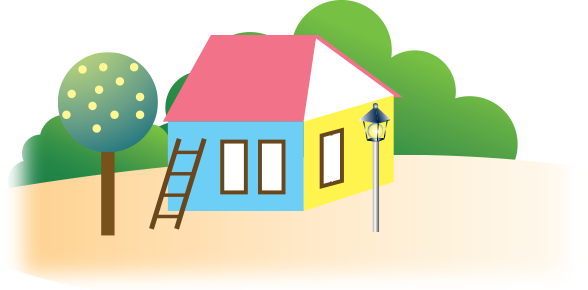
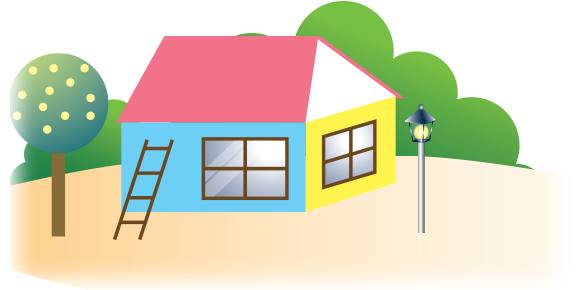
UPDATE

diff --git a/app/assets/javascripts/animations/dogru_ile_duzlem_iliskisi/dogru_ile_duzlem_iliskisi.common.js b/app/assets/javascripts/animations/dogru_ile_duzlem_iliskisi/dogru_ile_duzlem_iliskisi.common.js
@@ -6,8 +6,8 @@ dogrular=function(){
     var p="paralel";
     var pk=dogru;
     //cati
-    catiAY=new Point(164,122)
-    catiAX=new Point(212,35)
+    catiAY=new Point(120,122)
+    catiAX=new Point(168,35)
     catiA=new Path.Line(catiAX,catiAY);
     catiA.style=dogruStyle;
     catiA.class=k;
@@ -17,7 +17,7 @@ dogrular=function(){
     dogrularArray.push(catiA);
 
     catiBY=new Point(318,35)
-    catiBX=new Point(212,35)
+    catiBX=new Point(168,35)
     catiB=new Path.Line(catiBX,catiBY);
     catiB.style=dogruStyle;
     catiB.class=p;
@@ -37,7 +37,7 @@ dogrular=function(){
     dogrularArray.push(catiC);
 
     catiDY=new Point(305,122)
-    catiDX=new Point(164,122)
+    catiDX=new Point(120,122)
     catiD=new Path.Line(catiDX,catiDY);
     catiD.style=dogruStyle;
     catiD.class=p;
@@ -57,8 +57,8 @@ dogrular=function(){
     dogrularArray.push(arkaCati);
 
     // mavi duvarın solu ve altı
-    maviDuvarSolY=new Point(170,122)
-    maviDuvarSolX=new Point(170,213)
+    maviDuvarSolY=new Point(122,122)
+    maviDuvarSolX=new Point(122,213)
     maviDuvarSol=new Path.Line(maviDuvarSolX,maviDuvarSolY);
     maviDuvarSol.style=dogruStyle;
     maviDuvarSol.class=pk;
@@ -67,7 +67,7 @@ dogrular=function(){
     maviDuvarSol.name="maviDuvarSol";
     dogrularArray.push(maviDuvarSol);
 
-    maviDuvarSagY=new Point(170,211)
+    maviDuvarSagY=new Point(123,211)
     maviDuvarSagX=new Point(304,211)
     maviDuvarSag=new Path.Line(maviDuvarSagX,maviDuvarSagY);
     maviDuvarSag.style=dogruStyle;
@@ -81,8 +81,8 @@ dogrular=function(){
 
 
     // agaç
-    agacY=new Point(109,235)
-    agacX=new Point(109,152)
+    agacY=new Point(61,235)
+    agacX=new Point(61,152)
     agac=new Path.Line(agacX,agacY);
     agac.style=dogruStyle;
     agac.class=p;
@@ -94,8 +94,8 @@ dogrular=function(){
 
 
     //merdiven
-    merdivenSolY=new Point(180,139)
-    merdivenSolX=new Point(152,229)
+    merdivenSolY=new Point(150,139)
+    merdivenSolX=new Point(117,240)
     merdivenSol=new Path.Line(merdivenSolX,merdivenSolY);
     merdivenSol.style=dogruStyle;
     merdivenSol.class=k;
@@ -104,8 +104,8 @@ dogrular=function(){
     merdivenSol.name="merdivenSol";
     dogrularArray.push(merdivenSol);
 
-    merdivenSagY=new Point(205,139)
-    merdivenSagX=new Point(178,229)
+    merdivenSagY=new Point(175,139)
+    merdivenSagX=new Point(142,240)
     merdivenSag=new Path.Line(merdivenSagX,merdivenSagY);
     merdivenSag.style=dogruStyle;
     merdivenSag.class=k;
@@ -116,8 +116,8 @@ dogrular=function(){
 
 
     //basamaklar
-    basamak1Y=new Point(176,153)
-    basamak1X=new Point(200,153)
+    basamak1Y=new Point(144,149)
+    basamak1X=new Point(170,149)
     basamak1=new Path.Line(basamak1X,basamak1Y);
     basamak1.style=dogruStyle;
     basamak1.class=p;
@@ -126,8 +126,8 @@ dogrular=function(){
     basamak1.name="basamak1";
     dogrularArray.push(basamak1);
 
-    basamak2Y=new Point(170,175)
-    basamak2X=new Point(194,175)
+    basamak2Y=new Point(139,172)
+    basamak2X=new Point(163,172)
     basamak2=new Path.Line(basamak2X,basamak2Y);
     basamak2.style=dogruStyle;
     basamak2.class=p;
@@ -136,8 +136,8 @@ dogrular=function(){
     basamak2.name="basamak2";
     dogrularArray.push(basamak2);
 
-    basamak3Y=new Point(162,195)
-    basamak3X=new Point(187,195)
+    basamak3Y=new Point(130,198)
+    basamak3X=new Point(155,198)
     basamak3=new Path.Line(basamak3X,basamak3Y);
     basamak3.style=dogruStyle;
     basamak3.class=p;
@@ -146,8 +146,8 @@ dogrular=function(){
     basamak3.name="basamak3";
     dogrularArray.push(basamak3);
 
-    basamak4Y=new Point(156,216)
-    basamak4X=new Point(180,216)
+    basamak4Y=new Point(123,222)
+    basamak4X=new Point(146,222)
     basamak4=new Path.Line(basamak4X,basamak4Y);
     basamak4.style=dogruStyle;
     basamak4.class=p;
@@ -157,8 +157,8 @@ dogrular=function(){
     dogrularArray.push(basamak4);
 
     //pencereler
-    pencere1AY=new Point(221,142)
-    pencere1AX=new Point(249,142)
+    pencere1AY=new Point(206,138)
+    pencere1AX=new Point(290,138)
     pencere1A=new Path.Line(pencere1AX,pencere1AY);
     pencere1A.style=dogruStyle;
     pencere1A.class=pk;
@@ -167,8 +167,8 @@ dogrular=function(){
     pencere1A.name="pencere1A";
     dogrularArray.push(pencere1A);
 
-    pencere1BY=new Point(247,142)
-    pencere1BX=new Point(247,194)
+    pencere1BY=new Point(289,138)
+    pencere1BX=new Point(289,197)
     pencere1B=new Path.Line(pencere1BX,pencere1BY);
     pencere1B.style=dogruStyle;
     pencere1B.class=pk;
@@ -177,8 +177,28 @@ dogrular=function(){
     pencere1B.name="pencere1B";
     dogrularArray.push(pencere1B);
 
-    pencere1CY=new Point(221,193)
-    pencere1CX=new Point(248,193)
+    pencere1IcY=new Point(247,140)
+    pencere1IcX=new Point(247,197)
+    pencere1Ic=new Path.Line(pencere1IcX,pencere1IcY);
+    pencere1Ic.style=dogruStyle;
+    pencere1Ic.class=pk;
+    pencere1Ic.cati=k;
+    pencere1Ic.sari=p;
+    pencere1Ic.name="pencere1Ic";
+    dogrularArray.push(pencere1Ic);
+
+    pencere1Ic2Y=new Point(206,169)
+    pencere1Ic2X=new Point(290,169)
+    pencere1Ic2=new Path.Line(pencere1Ic2X,pencere1Ic2Y);
+    pencere1Ic2.style=dogruStyle;
+    pencere1Ic2.class=pk;
+    pencere1Ic2.cati=p;
+    pencere1Ic2.sari=k;
+    pencere1Ic2.name="pencere1Ic2";
+    dogrularArray.push(pencere1Ic2);
+
+    pencere1CY=new Point(206,198)
+    pencere1CX=new Point(290,198)
     pencere1C=new Path.Line(pencere1CX,pencere1CY);
     pencere1C.style=dogruStyle;
     pencere1C.class=pk;
@@ -187,8 +207,8 @@ dogrular=function(){
     pencere1C.sari=k;
     dogrularArray.push(pencere1C);
 
-    pencere1DY=new Point(223,142)
-    pencere1DX=new Point(223,193)
+    pencere1DY=new Point(206,138)
+    pencere1DX=new Point(206,197)
     pencere1D=new Path.Line(pencere1DX,pencere1DY);
     pencere1D.style=dogruStyle;
     pencere1D.class=pk;
@@ -197,26 +217,10 @@ dogrular=function(){
     pencere1D.name="pencere1D";
     dogrularArray.push(pencere1D);
 
-    pencere2AY=new Point(260,142)
-    pencere2AX=new Point(286,142)
-    pencere2A=new Path.Line(pencere2AX,pencere2AY);
-    pencere2A.style=dogruStyle;
-    pencere2A.class=pk;
-    pencere2A.cati=p;
-    pencere2A.sari=k;
-    pencere2A.name="pencere2A";
-    dogrularArray.push(pencere2A);
 
-    pencere2BY=new Point(284,142)
-    pencere2BX=new Point(284,192)
-    pencere2B=new Path.Line(pencere2BX,pencere2BY);
-    pencere2B.style=dogruStyle;
-    pencere2B.class=pk;
-    pencere2B.cati=k;
-    pencere2B.sari=p;
-    pencere2B.name="pencere2B";
-    dogrularArray.push(pencere2B);
 
+
+/*
     pencere2CY=new Point(286,192)
     pencere2CX=new Point(260,192)
     pencere2C=new Path.Line(pencere2CX,pencere2CY);
@@ -227,6 +231,7 @@ dogrular=function(){
     pencere2C.name="pencere2C";
     dogrularArray.push(pencere2C);
 
+
     pencere2DY=new Point(261,142)
     pencere2DX=new Point(261,192)
     pencere2D=new Path.Line(pencere2DX,pencere2DY);
@@ -236,10 +241,10 @@ dogrular=function(){
     pencere2D.sari=p;
     pencere2D.name="pencere2D";
     dogrularArray.push(pencere2D);
+*/
 
-
-    pencere3AY=new Point(322,136)
-    pencere3AX=new Point(345,130)
+    pencere3AY=new Point(326,136)
+    pencere3AX=new Point(378,120)
     pencere3A=new Path.Line(pencere3AX,pencere3AY);
     pencere3A.style=dogruStyle;
     pencere3A.class=k;
@@ -248,8 +253,8 @@ dogrular=function(){
     pencere3A.name="pencere3A";
     dogrularArray.push(pencere3A);
 
-    pencere3BY=new Point(343,130)
-    pencere3BX=new Point(343,181)
+    pencere3BY=new Point(378,120)
+    pencere3BX=new Point(378,172)
     pencere3B=new Path.Line(pencere3BX,pencere3BY);
     pencere3B.style=dogruStyle;
     pencere3B.class=p;
@@ -258,8 +263,28 @@ dogrular=function(){
     pencere3B.name="pencere3B";
     dogrularArray.push(pencere3B);
 
-    pencere3CY=new Point(345,181)
-    pencere3CX=new Point(322,186)
+    pencere3IcY=new Point(326,162)
+    pencere3IcX=new Point(378,147)
+    pencere3Ic=new Path.Line(pencere3IcX,pencere3IcY);
+    pencere3Ic.style=dogruStyle;
+    pencere3Ic.class=k;
+    pencere3Ic.cati=k;
+    pencere3Ic.sari=pk;
+    pencere3Ic.name="pencere3Ic";
+    dogrularArray.push(pencere3Ic);
+
+    pencere3Ic2Y=new Point(353,128)
+    pencere3Ic2X=new Point(353,180)
+    pencere3Ic2=new Path.Line(pencere3Ic2X,pencere3Ic2Y);
+    pencere3Ic2.style=dogruStyle;
+    pencere3Ic2.class=p;
+    pencere3Ic2.cati=k;
+    pencere3Ic2.sari=pk;
+    pencere3Ic2.name="pencere3Ic2";
+    dogrularArray.push(pencere3Ic2);
+
+    pencere3CY=new Point(378,172)
+    pencere3CX=new Point(326,188)
     pencere3C=new Path.Line(pencere3CX,pencere3CY);
     pencere3C.style=dogruStyle;
     pencere3C.class=k;
@@ -268,8 +293,8 @@ dogrular=function(){
     pencere3C.name="pencere3C";
     dogrularArray.push(pencere3C);
 
-    pencere3DY=new Point(322,136)
-    pencere3DX=new Point(322,187)
+    pencere3DY=new Point(326,136)
+    pencere3DX=new Point(326,188)
     pencere3D=new Path.Line(pencere3DX,pencere3DY);
     pencere3D.style=dogruStyle;
     pencere3D.class="paralel";
@@ -282,8 +307,8 @@ dogrular=function(){
 
 
     //sarı duvar
-    sariDuvarAY=new Point(305,122)
-    sariDuvarAX=new Point(304,211)
+    sariDuvarAY=new Point(307,122)
+    sariDuvarAX=new Point(306,211)
     sariDuvarA=new Path.Line(sariDuvarAX,sariDuvarAY);
     sariDuvarA.style=dogruStyle;
     sariDuvarA.class=pk;
@@ -293,7 +318,7 @@ dogrular=function(){
     dogrularArray.push(sariDuvarA);
 
     sariDuvarBY=new Point(304,122)
-    sariDuvarBX=new Point(394,95)
+    sariDuvarBX=new Point(396,95)
     sariDuvarB=new Path.Line(sariDuvarBX,sariDuvarBY);
     sariDuvarB.style=dogruStyle;
     sariDuvarB.class=k;
@@ -302,8 +327,10 @@ dogrular=function(){
     sariDuvarB.name="sariDuvarB";
     dogrularArray.push(sariDuvarB);
 
-    sariDuvarCY=new Point(394,95)
-    sariDuvarCX=new Point(394,181)
+
+
+    sariDuvarCY=new Point(396,95)
+    sariDuvarCX=new Point(396,181)
     sariDuvarC=new Path.Line(sariDuvarCX,sariDuvarCY);
     sariDuvarC.style=dogruStyle;
     sariDuvarC.class=p;
@@ -313,7 +340,7 @@ dogrular=function(){
     dogrularArray.push(sariDuvarC);
 
     sariDuvarDY=new Point(304,211)
-    sariDuvarDX=new Point(394,181)
+    sariDuvarDX=new Point(396,181)
     sariDuvarD=new Path.Line(sariDuvarDX,sariDuvarDY);
     sariDuvarD.style=dogruStyle;
     sariDuvarD.class=k;
@@ -323,8 +350,8 @@ dogrular=function(){
     dogrularArray.push(sariDuvarD);
 
     //lamba direği
-    lambaY=new Point(377,142);
-    lambaX=new Point(377,232);
+    lambaY=new Point(423,142);
+    lambaX=new Point(423,232);
     lamba=new Path.Line(lambaX,lambaY);
     lamba.style=dogruStyle;
     lamba.class=p;
@@ -403,7 +430,7 @@ dogrular=function(){
         if(hitResult){
             console.log("ÇAtı: "+event.item.cati);
             if(event.item.class=="paralel" || event.item.class=="kesişen"){
-                if(event.item.strokeWidth==2 & dogru==event.item.class){
+                if(event.item.strokeWidth==10 & dogru==event.item.class){
                     console.log("IF: "+event.item.name+","+event.item.opacity)
                     //event.item.opacity=0.5;
                     event.item.style=seciliStyle;

diff --git a/app/assets/javascripts/animations/dogru_ile_duzlem_iliskisi/dogru_ile_duzlem_iliskisi.styles.js b/app/assets/javascripts/animations/dogru_ile_duzlem_iliskisi/dogru_ile_duzlem_iliskisi.styles.js
@@ -8,7 +8,7 @@ function __Styles(){
     surfaceStyleLine = {
         strokeColor: "#8b5400",
 
-        strokeWidth: 2,
+        strokeWidth: 2
         //opacity:0
     };
 
@@ -36,8 +36,8 @@ function __Styles(){
     // uygualama
 
     dogruStyle={
-        strokeColor:new RgbColor(1,0.5,0,0),
-        strokeWidth:2
+        strokeColor:new RgbColor(1,0,0,0),
+        strokeWidth:10
 
     }
 
